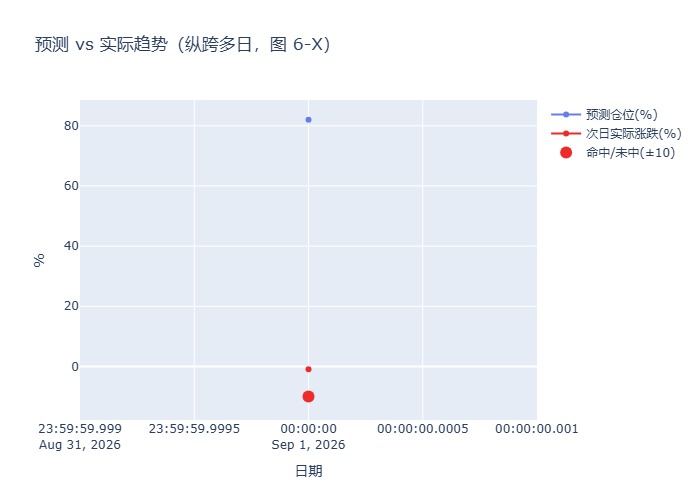
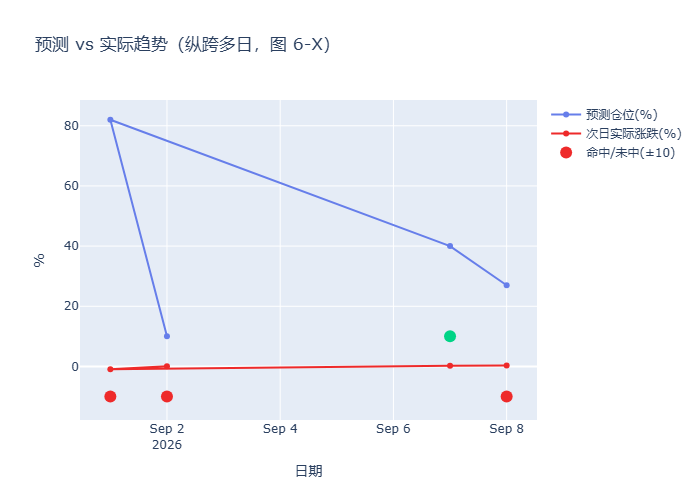
docs(thesis/ch6): 第6章评估资产对齐到最新真实运行数据（11 快照 / 11 预测 / 命中率 25%）
⚠ 红线声明：本提交是对 thesis/ch6_eval/* 的**真实运行刷新**，**非人工篡改**。
来源：thesis/eval_ch6.py 仅读取 data/ 下的真实落盘
（daily_snapshot.json + snapshots/*.json + prediction_log.json），不联网、不伪造。

本次口径（可一键 revert 回退）：
- 快照样本量 4 → 9（09-14 评估脚本重跑）→ 现 11（补 backfill 09-11/09-14 后）。
- 预测记录累计 11 条，已评分 4 条，命中率 0.25（25.0%）。
- 历史运行记录 history.json 累计 13 条（run_at 均为真实运行时戳，无未来时间戳）。
- fig_*.png 按真实数据重绘（kaleido 可用，导出 PNG）。

说明（保留论文原口径）：小样本下如实标注「样本量 n 不足以下结论」，不做显著性推断，
与 calibration.py 小样本不表态设计一致。49.1% 论文主干数字（reports/backtest_decision_closure.json）
未触碰。

附：决策闭环本次静默停摆（脚本健康、调度没跑）已由 backfill+score-only 恢复，
对应代码修复见 c58135c（炸板股池 30 交易日窗口裁剪）。

diff --git a/thesis/ch6_eval/report.md b/thesis/ch6_eval/report.md
@@ -1,10 +1,10 @@
 # 第6章 评估结果（草稿，来自真实运行数据）
 
-- 决策快照样本量：4 份（['2026-08-31', '2026-09-03']）
-- 温度取值范围：[24.0, 75.2]
+- 决策快照样本量：11 份（['2026-08-31', '2026-09-14']）
+- 温度取值范围：[11.4, 75.2]
 - 仓位取值范围：[10, 82]，clamp[5,95] 校验：通过
-- 周期分布：{'修复试探': 2, '主升高潮': 1, '退潮': 1}
-- 预测记录：共 4 条，已评分 1 条，命中率 0.0
+- 周期分布：{'修复试探': 7, '主升高潮': 2, '退潮': 2}
+- 预测记录：共 11 条，已评分 4 条，命中率 0.25
 
 > 说明：当前为系统上线初期，样本量有限。第6章以「决策闭环功能正确性 + 校准机制设计正确性」为评估主线，
 > 纵向命中率统计作为趋势性证据呈现，**不**对小规模样本做显著性推断（与 calibration.py 小样本不表态的设计一致）。
